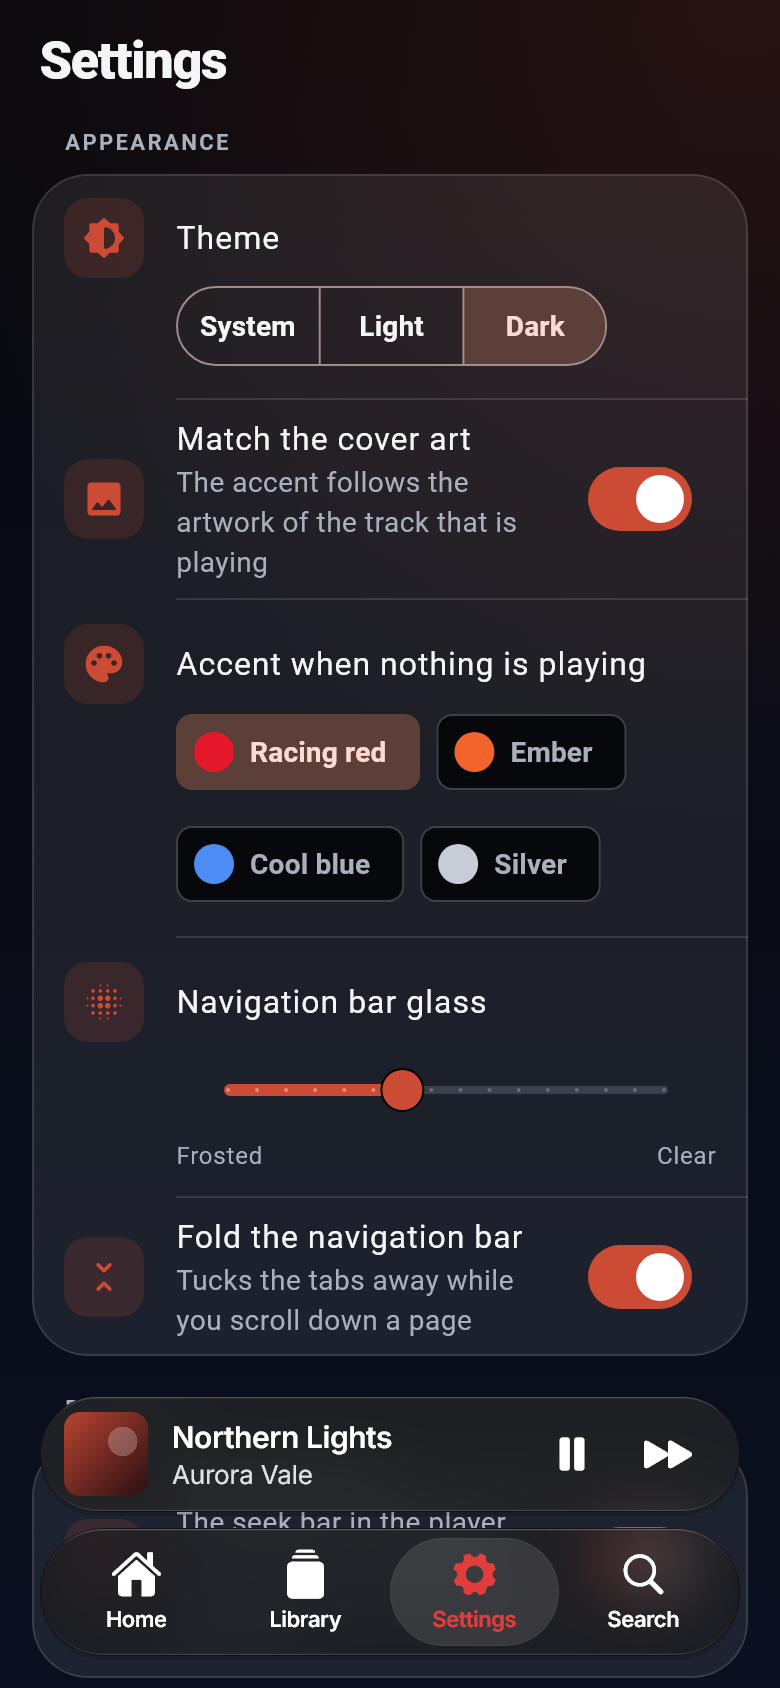
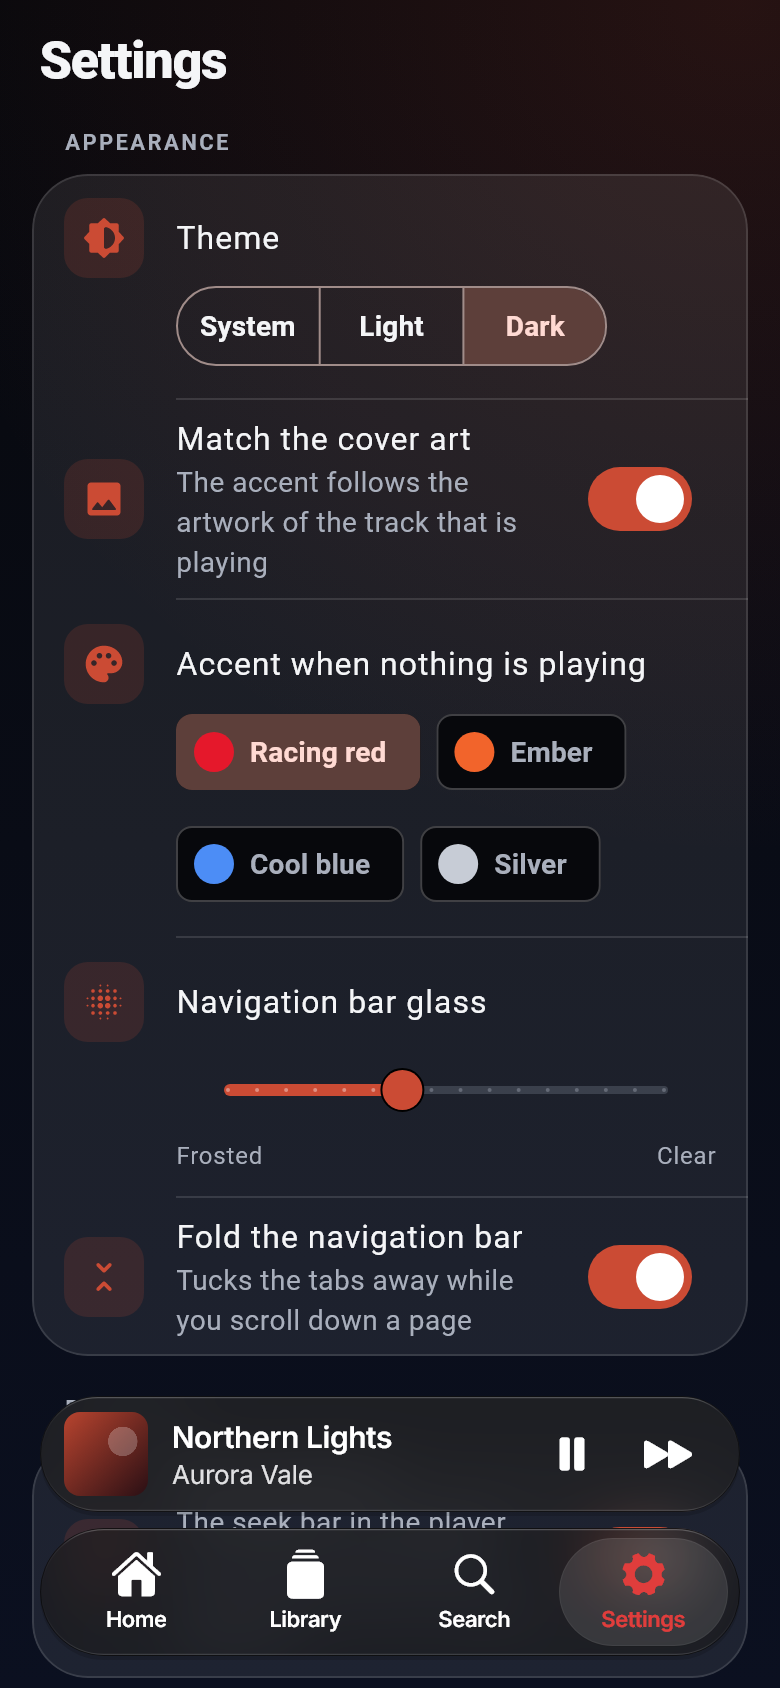
feat(nav): put Search third and Settings last in the bottom bar
Settings, being the last tab, is also the button the folded bar keeps on
its right; that button is now named after the last tab.

Claude-Session: https://claude.ai/code/session_01KiFKY5jGwTw11Ctb53AzkQ

Changed region(s): [[0.5231, 0.8934, 0.9231, 0.9858], [0.9231, 0.9242, 0.9538, 0.955]]

diff --git a/lib/app/app_shell.dart b/lib/app/app_shell.dart
@@ -24,18 +24,17 @@ import 'providers.dart';
 
 const _homeIndex = 0;
 const _libraryIndex = 1;
-// Settings sits between them, at index 2.
-const _searchIndex = 3;
+const _searchIndex = 2;
+const _settingsIndex = 3;
 
 /// Window width from which a navigation rail replaces the bottom bar. As in
 /// the navigation's source, tablets keep the bottom bar in both orientations;
 /// the rail is for desktop-width windows.
 const _navigationRailBreakpoint = 1440.0;
 
-/// The app frame: Home, Library, Settings and Search behind the floating
-/// glass bar, with the mini-player riding on top of it. Settings takes the
-/// bar's optional third slot; Search stays last because the folded bar keeps
-/// it as its right-hand button.
+/// The app frame: Home, Library, Search and Settings behind the floating
+/// glass bar, with the mini-player riding on top of it. Settings is last,
+/// which also makes it the button the folded bar keeps on its right.
 ///
 /// The bar itself, its theme and its fold-on-scroll controller are the
 /// navigation shell from `third_party/spotiflac`; this class wires them to
@@ -186,12 +185,12 @@ class _AppShellState extends ConsumerState<AppShell> {
         label: 'Library',
       ),
       const NavigationDestination(
-        icon: Icon(CupertinoIcons.gear_alt_fill),
-        label: 'Settings',
-      ),
-      const NavigationDestination(
         icon: Icon(CupertinoIcons.search),
         label: 'Search',
+      ),
+      const NavigationDestination(
+        icon: Icon(CupertinoIcons.gear_alt_fill),
+        label: 'Settings',
       ),
     ];
 
@@ -235,8 +234,8 @@ class _AppShellState extends ConsumerState<AppShell> {
               MaterialPageRoute<void>(builder: (_) => const LibraryScreen()),
         ),
       ),
-      ('settings', const SettingsScreen()),
       ('search', const SearchScreen()),
+      ('settings', const SettingsScreen()),
     ];
     // Each destination is built the first time it is opened and then kept,
     // with its scroll position; hidden ones have their animations paused.
@@ -314,7 +313,9 @@ class _AppShellState extends ConsumerState<AppShell> {
                     selectedIndex: _currentIndex,
                     onSelected: _onNavTap,
                     onHome: () => _onNavTap(_homeIndex),
-                    onSearch: () => _onNavTap(_searchIndex),
+                    // The bar's last slot, which is also the button the
+                    // folded bar keeps on its right: Settings here.
+                    onSearch: () => _onNavTap(_settingsIndex),
                     blurEnabled: ref.watch(mornyeBlurEnabledProvider),
                   ),
                 ),

diff --git a/test/app/app_shell_test.dart b/test/app/app_shell_test.dart
@@ -147,8 +147,9 @@ void main() {
   const tabletLandscape = Size(1280, 800);
   const desktop = Size(1600, 900);
 
-  // The two round buttons the folded bar keeps. They are always in the tree;
-  // folding is what makes them take taps.
+  // The two round buttons the folded bar keeps: the current tab on the left
+  // and the bar's last tab (Settings) on the right, whatever the key says.
+  // They are always in the tree; folding is what makes them take taps.
   final foldedSearch = find
       .byKey(const ValueKey('mornye-compact-search'))
       .hitTestable();
@@ -163,9 +164,9 @@ void main() {
 
     expect(find.byType(MornyeBottomBar), findsOneWidget);
     expect(find.byType(NavigationRail), findsNothing);
-    // Settings is reachable straight from the bar; Search is last.
+    // Settings is reachable straight from the bar, in its last slot.
     final positions = [
-      for (final label in ['Home', 'Library', 'Settings', 'Search'])
+      for (final label in ['Home', 'Library', 'Search', 'Settings'])
         tester.getCenter(find.text(label).last).dx,
     ];
     expect(positions, orderedEquals([...positions]..sort()));
@@ -230,19 +231,19 @@ void main() {
       expect(foldedSearch, findsNothing);
     });
 
-    testWidgets('the folded search button opens Search', (tester) async {
+    testWidgets('the folded bar keeps Settings on its right', (tester) async {
       await _pumpApp(tester, size: phone, tracks: many);
       await tester.tap(find.text('Library').last);
       await tester.pumpAndSettle();
       await tester.drag(find.text('Track 3'), const Offset(0, -300));
       await tester.pumpAndSettle();
 
+      expect(find.byTooltip('Settings'), findsOneWidget);
       await tester.tap(foldedSearch);
       await tester.pumpAndSettle();
 
-      expect(find.text('Search your library'), findsOneWidget);
+      expect(find.text('APPEARANCE').hitTestable(), findsOneWidget);
     });
-
     testWidgets('unfolds when the list is back at its top', (tester) async {
       await _pumpApp(tester, size: phone, tracks: many);
       await tester.tap(find.text('Library').last);

diff --git a/lib/third_party/spotiflac/mornye_bottom_bar.dart b/lib/third_party/spotiflac/mornye_bottom_bar.dart
@@ -1,7 +1,9 @@
 // Copied from SpotiFLAC-Mobile (https://github.com/zarzet/SpotiFLAC-Mobile),
 // Copyright (c) 2026 zarzet, MIT licence. See LICENSE in this folder.
 // Changes for NocTune: imports, app-specific hooks, and the height of the
-// mini-player row (58 instead of 48, so the cover has room around it).
+// mini-player row (58 instead of 48, so the cover has room around it), and
+// the folded bar's right-hand button is named after the last destination
+// rather than always "Search".
 
 import 'dart:math' as math;
 
@@ -264,7 +266,7 @@ class _MornyeBottomBarState extends ConsumerState<MornyeBottomBar>
                             ),
                             tooltip: leading
                                 ? destinations[leadingIndex].label
-                                : 'Search',
+                                : destinations.last.label,
                             iconSize: 25,
                             constraints: BoxConstraints.tightFor(
                               width: size,
